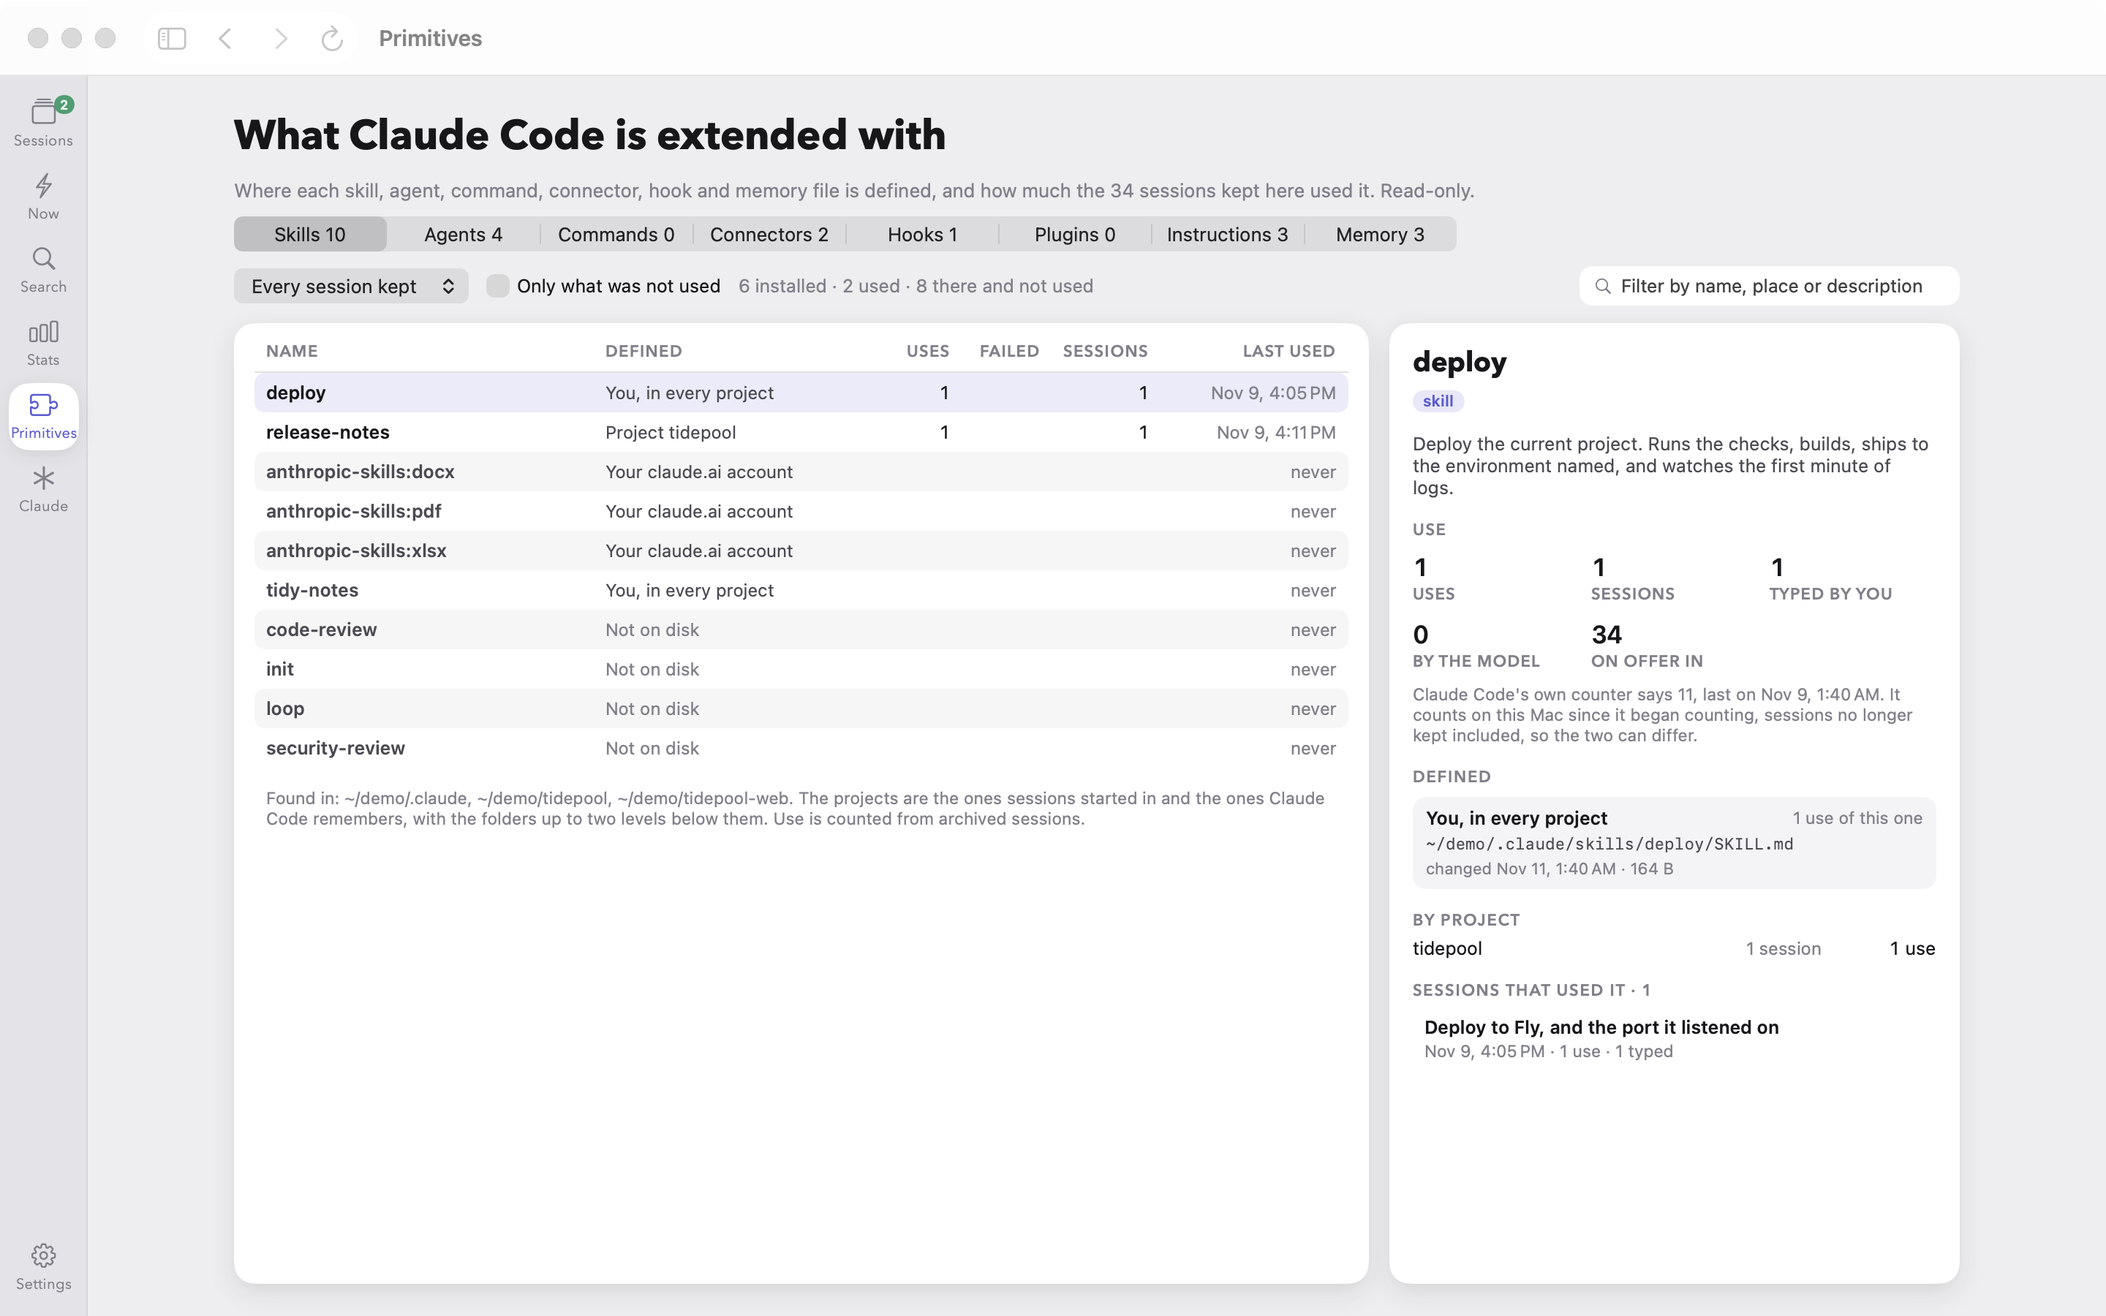
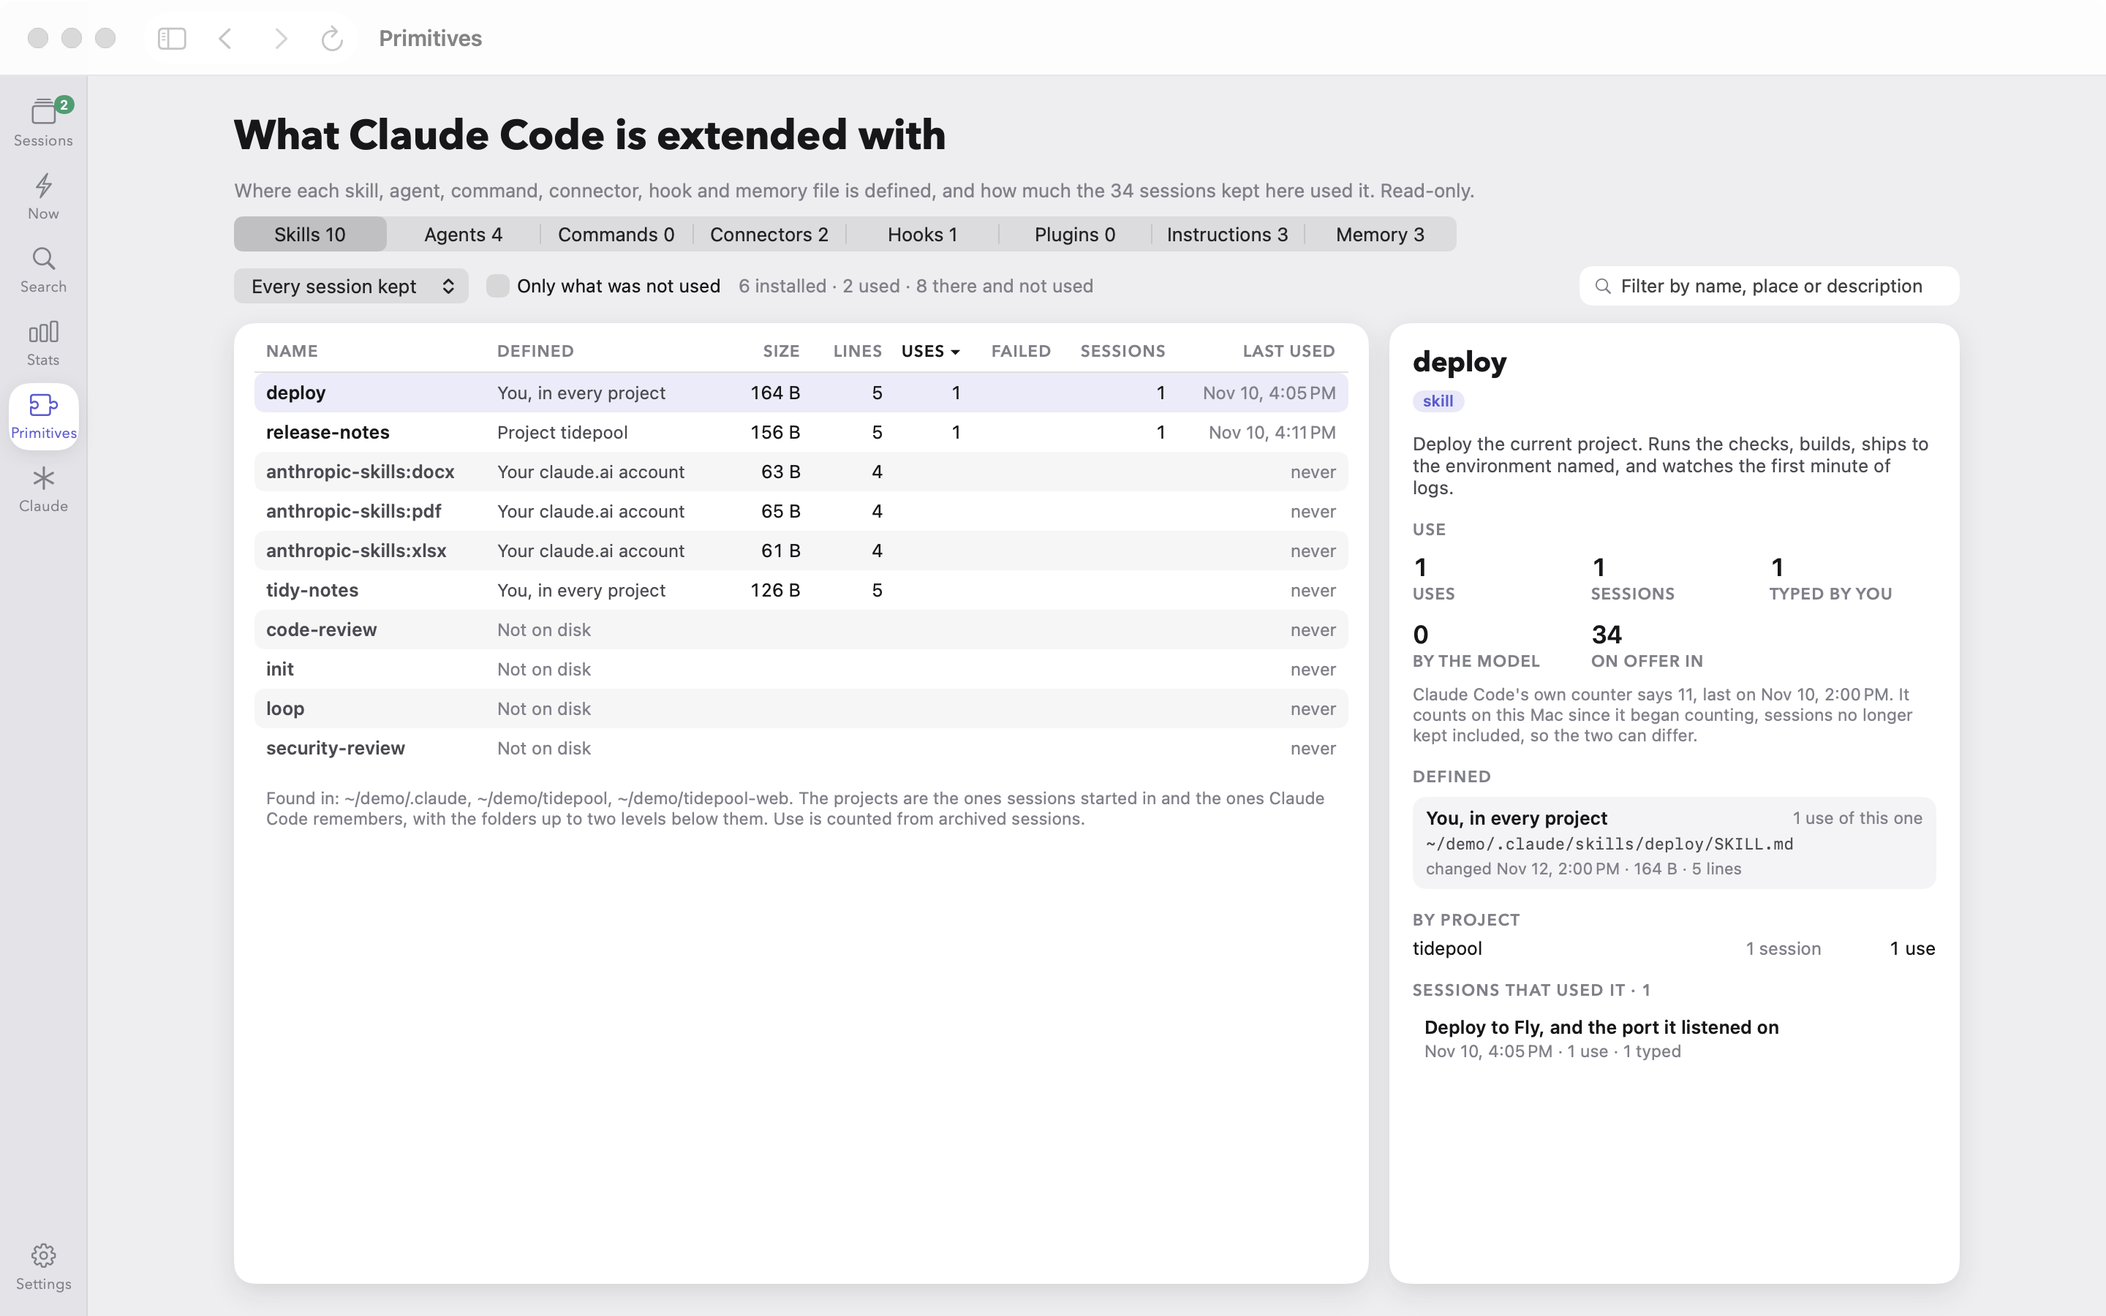
Pictures: the Summary's map, and the Primitives page with its new columns
shots.sh takes the map lower on the Summary as summary-map.png; the README
shows it. The plan notes 0.1.1.

diff --git a/client/SessionVisualizer/Sources/SessionVisualizer/SummaryView.swift b/client/SessionVisualizer/Sources/SessionVisualizer/SummaryView.swift
@@ -12,6 +12,8 @@ struct SummaryView: View {
     @AppStorage(SettingsKey.summaryDigest) private var showDigest = true
     @AppStorage(SettingsKey.summaryHours) private var showHours = true
     @AppStorage(SettingsKey.summaryMap) private var showMap = true
+    /// A part of the page a snapshot is taken of ("digest", "map", "hours"): brought to the top once it is there.
+    @Environment(\.snapshotSummaryPart) private var snapshotPart
     var session: SessionSummary
 
     var body: some View {
@@ -19,46 +21,54 @@ struct SummaryView: View {
         // The numbers of the open session come from /stats, which is computed
         // from the transcript as it is now; the list row may be a little older.
         let stats: SessionSummary = { if case .loaded(let s) = store.stats[session.id] { s } else { session } }()
-        ScrollView {
-            // A plain stack: see Digest for why nothing on this page is lazy.
-            VStack(alignment: .leading, spacing: 0) {
-                SummaryHead(session: session)
-                VStack(spacing: 12) {
-                    row {
-                        AboutCard(title: "What it is about", text: model?.firstPrompt?.text, model: model, target: model?.firstPrompt.flatMap { p in model?.doc.turns.first { $0.promptIndex == p.index } }.map { .turn($0.index) })
-                        AboutCard(title: "Where it ended", text: model?.ending?.text, model: model, target: model?.ending.map { .action($0.index) })
+        ScrollViewReader { proxy in
+            ScrollView {
+                // A plain stack: see Digest for why nothing on this page is lazy.
+                VStack(alignment: .leading, spacing: 0) {
+                    SummaryHead(session: session)
+                    VStack(spacing: 12) {
+                        row {
+                            AboutCard(title: "What it is about", text: model?.firstPrompt?.text, model: model, target: model?.firstPrompt.flatMap { p in model?.doc.turns.first { $0.promptIndex == p.index } }.map { .turn($0.index) })
+                            AboutCard(title: "Where it ended", text: model?.ending?.text, model: model, target: model?.ending.map { .action($0.index) })
+                        }
+                        row {
+                            SizeCard(stats: stats)
+                            OutcomeCard(stats: stats, model: model)
+                            ProblemsCard(stats: stats, model: model)
+                        }
+                        row {
+                            ContextCard(sessionID: session.id, live: store.isLive(session.id), model: model)
+                            ParallelCard(model: model)
+                            OutsideCard(model: model)
+                        }
+                        row {
+                            WhereCard(stats: stats, model: model)
+                            HowCard(stats: stats, model: model)
+                        }
                     }
-                    row {
-                        SizeCard(stats: stats)
-                        OutcomeCard(stats: stats, model: model)
-                        ProblemsCard(stats: stats, model: model)
+                    .padding(.top, 18)
+                    if let model {
+                        SessionSearchBox(model: model).padding(.top, 22)
+                        if showDigest { Digest(model: model).padding(.top, 22).id("digest") }
+                        if showMap { ArcsMap(model: model, layout: ArcsLayout(model: model)).padding(.top, 22).id("map") }
+                        if showHours, let grid = HoursGrid(turns: model.doc.turns) { HoursCard(model: model, grid: grid).padding(.top, 18).id("hours") }
+                    } else if case .failed(let why) = store.models[session.id] {
+                        Text("Could not read the session: \(why)").font(.system(size: 12)).foregroundStyle(palette.err).padding(.top, 18)
                     }
-                    row {
-                        ContextCard(sessionID: session.id, live: store.isLive(session.id), model: model)
-                        ParallelCard(model: model)
-                        OutsideCard(model: model)
-                    }
-                    row {
-                        WhereCard(stats: stats, model: model)
-                        HowCard(stats: stats, model: model)
-                    }
+                    SessionNote(sessionID: session.id).padding(.top, 18)
                 }
-                .padding(.top, 18)
-                if let model {
-                    SessionSearchBox(model: model).padding(.top, 22)
-                    if showDigest { Digest(model: model).padding(.top, 22) }
-                    if showMap { ArcsMap(model: model, layout: ArcsLayout(model: model)).padding(.top, 22) }
-                    if showHours, let grid = HoursGrid(turns: model.doc.turns) { HoursCard(model: model, grid: grid).padding(.top, 18) }
-                } else if case .failed(let why) = store.models[session.id] {
-                    Text("Could not read the session: \(why)").font(.system(size: 12)).foregroundStyle(palette.err).padding(.top, 18)
-                }
-                SessionNote(sessionID: session.id).padding(.top, 18)
+                .frame(maxWidth: Metric.wideColumn, alignment: .leading)
+                .padding(.horizontal, 28).padding(.top, 24).padding(.bottom, 60)
+                .frame(maxWidth: .infinity)
             }
-            .frame(maxWidth: Metric.wideColumn, alignment: .leading)
-            .padding(.horizontal, 28).padding(.top, 24).padding(.bottom, 60)
-            .frame(maxWidth: .infinity)
+            .background(palette.bg)
+            .task(id: model == nil) {
+                // The parts under the cards are there once the session has been read.
+                guard let snapshotPart, model != nil else { return }
+                try? await Task.sleep(for: .milliseconds(100))
+                proxy.scrollTo(snapshotPart, anchor: .top)
+            }
         }
-        .background(palette.bg)
     }
 
     /// Cards side by side, as wide as each other and as tall as the tallest.

diff --git a/docs/launch/README.md b/docs/launch/README.md
@@ -4,7 +4,7 @@ What SessionVisualizer is in a few words, pictures of every page, and the questi
 material for the README and for showing the app to someone.
 
 - [`faq.md`](faq.md): questions and answers that are true today.
-- [`screenshots/`](screenshots): seventeen pictures, all of made-up sessions.
+- [`screenshots/`](screenshots): eighteen pictures, all of made-up sessions.
 - [`tools/`](tools): what makes the pictures again.
 
 ## What it is
@@ -19,21 +19,22 @@ left. It is free, open source, and nothing leaves your machine.
 
 **What is in it**, in the order people tend to care:
 
-| What               | In a sentence                                                                                  | Picture                                                                 |
-| ------------------ | ---------------------------------------------------------------------------------------------- | ----------------------------------------------------------------------- |
-| An archive         | Every session kept, losslessly, after Claude Code has deleted its own copy.                    | [onboarding-2](screenshots/onboarding-2.png)                            |
-| Now                | What each running session is doing, and a countdown to when its prompt cache expires.          | [now](screenshots/now.png)                                              |
-| Back to the editor | One click raises the VS Code window that is running that session.                              | [now](screenshots/now.png)                                              |
-| Summary            | What a session was about, how it ended, what it wrote, what failed.                            | [summary](screenshots/summary.png)                                      |
-| Transcript         | The conversation, with tool calls, subagents and thinking folded where you want them.          | [transcript](screenshots/transcript.png)                                |
-| Canvas             | The session as a braid of prompts, steps, parallel calls and subagents; or as a score in time. | [canvas](screenshots/canvas.png), [score](screenshots/canvas-score.png) |
-| Timeline           | Where the wall time went: the model, tools, subagents, waiting for you.                        | [timeline](screenshots/timeline.png)                                    |
-| Files              | Every file a session touched, as it is now, with every other session that touched it.          | [files](screenshots/files.png)                                          |
-| Search             | Across every session kept. By words at once; by meaning with a model that runs on your Mac.    | [search](screenshots/search.png)                                        |
-| Stats              | A year of days, tools and failures, models, the prompt cache, actions per prompt.              | [stats](screenshots/stats.png)                                          |
-| Primitives         | Skills, agents, connectors, hooks: where each is defined, how much it is used, what never is.  | [primitives](screenshots/primitives.png)                                |
-| A first run        | It says what it reads, what it keeps and what it installs before it does any of it.            | [onboarding-3](screenshots/onboarding-3.png)                            |
-| `skit`             | The same engine as a command line tool with `--json` everywhere, for scripts and for agents.   |
+| What               | In a sentence                                                                                     | Picture                                                                 |
+| ------------------ | ------------------------------------------------------------------------------------------------- | ----------------------------------------------------------------------- |
+| An archive         | Every session kept, losslessly, after Claude Code has deleted its own copy.                       | [onboarding-2](screenshots/onboarding-2.png)                            |
+| Now                | What each running session is doing, and a countdown to when its prompt cache expires.             | [now](screenshots/now.png)                                              |
+| Back to the editor | One click raises the VS Code window that is running that session.                                 | [now](screenshots/now.png)                                              |
+| Summary            | What a session was about, how it ended, what it wrote, what failed.                               | [summary](screenshots/summary.png)                                      |
+| The map            | On the Summary: each turn down a spine, tied to the files it touched and the services it reached. | [summary-map](screenshots/summary-map.png)                              |
+| Transcript         | The conversation, with tool calls, subagents and thinking folded where you want them.             | [transcript](screenshots/transcript.png)                                |
+| Canvas             | The session as a braid of prompts, steps, parallel calls and subagents; or as a score in time.    | [canvas](screenshots/canvas.png), [score](screenshots/canvas-score.png) |
+| Timeline           | Where the wall time went: the model, tools, subagents, waiting for you.                           | [timeline](screenshots/timeline.png)                                    |
+| Files              | Every file a session touched, as it is now, with every other session that touched it.             | [files](screenshots/files.png)                                          |
+| Search             | Across every session kept. By words at once; by meaning with a model that runs on your Mac.       | [search](screenshots/search.png)                                        |
+| Stats              | A year of days, tools and failures, models, the prompt cache, actions per prompt.                 | [stats](screenshots/stats.png)                                          |
+| Primitives         | Skills, agents, connectors, hooks: where each is defined, how big, how much used, what never is.  | [primitives](screenshots/primitives.png)                                |
+| A first run        | It says what it reads, what it keeps and what it installs before it does any of it.               | [onboarding-3](screenshots/onboarding-3.png)                            |
+| `skit`             | The same engine as a command line tool with `--json` everywhere, for scripts and for agents.      |
 
 **What it is not.** Not made by or affiliated with Anthropic. Not a wrapper around Claude Code: it does not start
 sessions, change settings or write under `~/.claude`. Not a cost calculator: the dollar figures it shows are the ones
@@ -41,7 +42,7 @@ Claude Code recorded. Not for Intel Macs, Windows or Linux.
 
 ## The pictures
 
-All seventeen are of a home that `tools/make_demo_home.py` writes: one invented developer, three small projects (a
+All eighteen are of a home that `tools/make_demo_home.py` writes: one invented developer, three small projects (a
 tide-times API, its web page, a notes folder), thirty-four sessions over two months. No picture shows a real session, a
 real prompt or a real path. Paths read `~/demo/…` because the home is `/Users/Shared/demo` while the pictures are taken.
 
@@ -49,13 +50,14 @@ real prompt or a real path. Paths read `~/demo/…` because the home is `/Users/
 | --------------------------------------- | -------------------------------------------------------------------------------- |
 | `now.png`                               | Three cards: a command running, one waiting with 3 minutes of cache, one closed. |
 | `summary.png`                           | A session at a glance: prompts, files written, the failed call, the subagent.    |
+| `summary-map.png`                       | The map lower on the Summary: turns, the files and services each one touched.    |
 | `transcript.png`                        | A debugging session with two subagents and the answer.                           |
 | `canvas.png`, `canvas-score.png`        | The same session as a braid, and laid out in time.                               |
 | `timeline.png`                          | The strip, the ledger and "Where the time went".                                 |
 | `files.png`                             | A file as it is now, coloured, and the six sessions that touched it.             |
 | `search.png`                            | "race detector" across sessions, with the hit.                                   |
 | `stats.png`                             | Totals, the year, tools, where the time went.                                    |
-| `primitives.png`                        | Skills with where each is defined and whether it was ever used.                  |
+| `primitives.png`                        | Skills with where each is defined, its size and lines, and whether it was used.  |
 | `sessions.png`, `claude.png`            | The list, and how Claude Code is set up.                                         |
 | `onboarding-1.png` … `onboarding-5.png` | The first run, step by step.                                                     |
 

diff --git a/README.md b/README.md
@@ -54,6 +54,11 @@ The Summary is the picture at the top. The other four:
   </tr>
 </table>
 
+The Summary also draws the session as a map: each turn down a spine, tied to the files it touched and the services it
+reached. Thick strands are writes, thin ones are reads.
+
+![The Summary's map: five turns down a spine, with strands to the three files they read and wrote, a web search and GitHub](docs/launch/screenshots/summary-map.png)
+
 ### Every session together
 
 <table>
@@ -73,8 +78,9 @@ The Summary is the picture at the top. The other four:
       <br><b>Stats.</b> A year of days, tools and failures, models, the prompt cache, actions per prompt.
     </td>
     <td width="50%" valign="top">
-      <a href="docs/launch/screenshots/primitives.png"><img src="docs/launch/screenshots/primitives.png" alt="Primitives: skills with where each is defined and whether it was ever used"></a>
-      <br><b>Primitives.</b> Skills, agents, connectors, hooks: where each is defined, how much it is used, what never is.
+      <a href="docs/launch/screenshots/primitives.png"><img src="docs/launch/screenshots/primitives.png" alt="Primitives: skills with where each is defined, its size and lines, and whether it was ever used"></a>
+      <br><b>Primitives.</b> Skills, agents, connectors, hooks: where each is defined, how big it is, how much it is used,
+      what never is.
     </td>
   </tr>
 </table>

diff --git a/docs/plan-v0.md b/docs/plan-v0.md
@@ -386,6 +386,10 @@ takes the zip instead installs `llama.cpp` themselves for search by meaning.
 First release, 2026-11-11: **v0.1.0**, a tag, a GitHub release with the notarised zip, and the cask. It is not 1.0:
 `/v0` and its shapes are not frozen, and the rest of this list stands.
 
+**v0.1.1**, 2026-11-12: the Transcript of a short session no longer freezes the window (a plain stack up to 150 rows,
+see the client's README), and the Primitives list sorts by any column, with the size and the lines of each definition's
+file (`lines` is new in `/v0/primitives`; nothing else in the shapes changed).
+
 Done when: the release, installed from nothing on Juan's other Mac, archives that Mac's sessions and answers a question
 about them, and removing it leaves nothing running.
 
